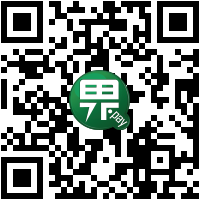
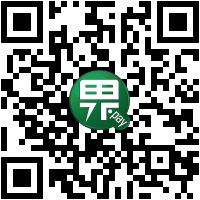
移除晶片插卡轉帳

diff --git a/src/pages/SponsorUs.js b/src/pages/SponsorUs.js
@@ -115,10 +115,10 @@ const SponsorUs = () => {
       image: wiretransfer_qrcode,
       description: (
         <>
-          請<a href="https://p.ecpay.com.tw/F1295F8" target="_blank" rel="noopener noreferrer">點擊連結</a>或掃描 QR Code。
+          請<a href="https://p.ecpay.com.tw/FBECD48" target="_blank" rel="noopener noreferrer">點擊連結</a>或掃描 QR Code。
         </>
       ),
-      link: 'https://p.ecpay.com.tw/F1295F8'
+      link: 'https://p.ecpay.com.tw/FBECD48'
     },
   ];
 
